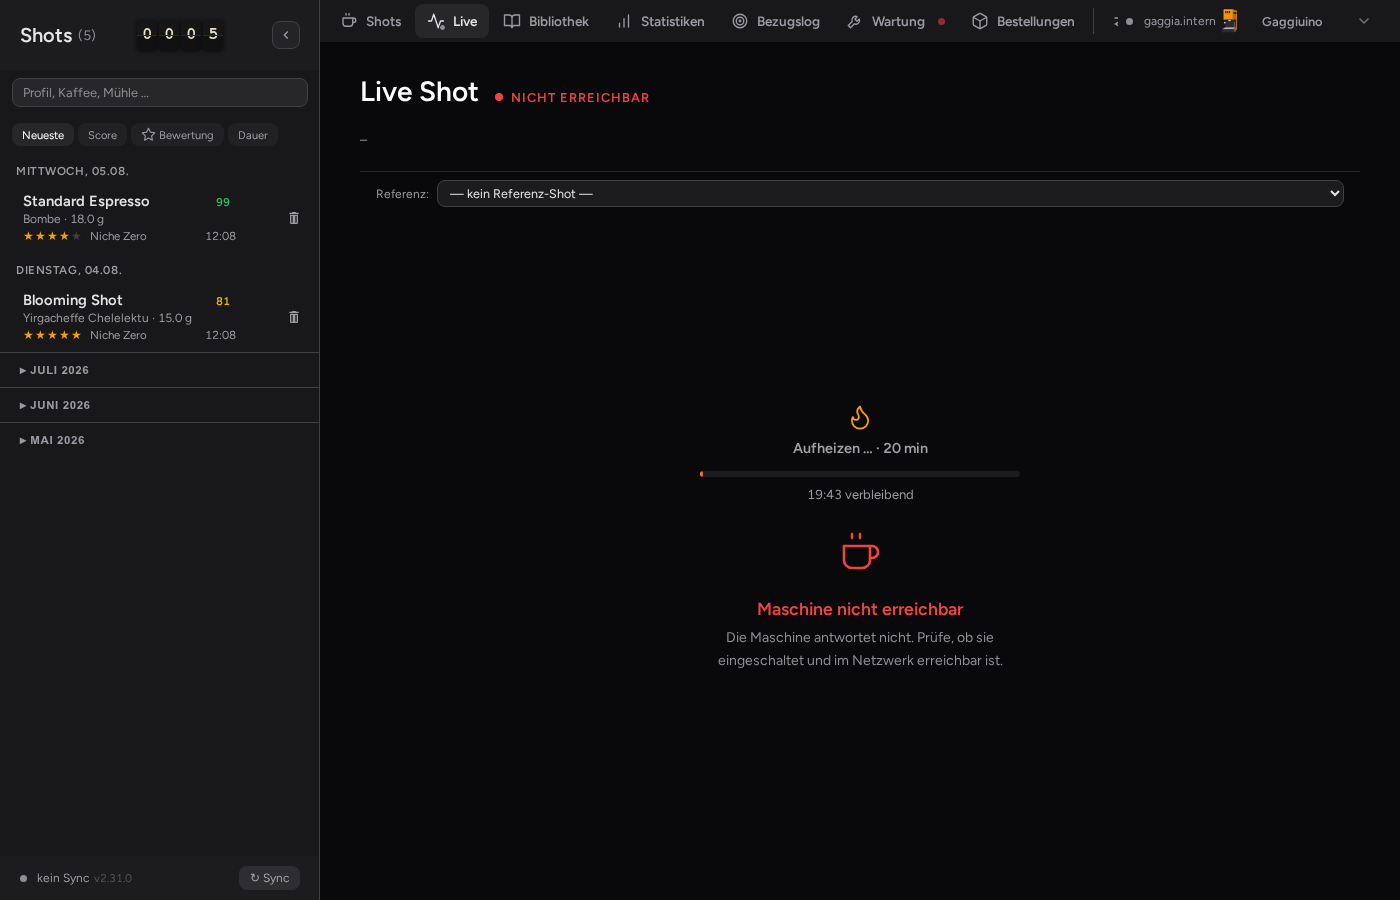
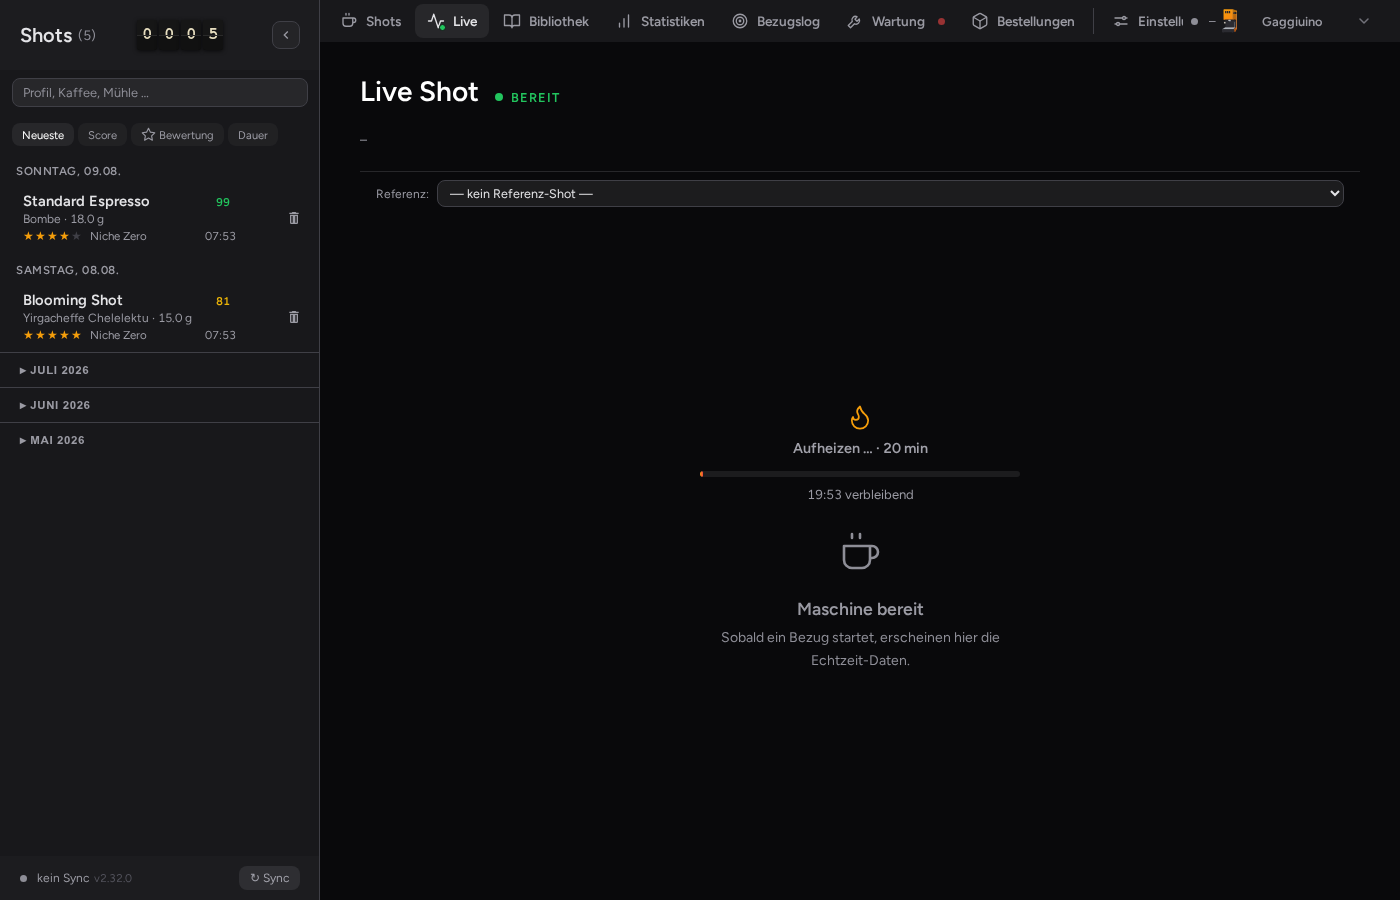
release: v2.32.0
Squash the dev branch's version numbers (which climbed through eight
sub-versions, 2.32.0-2.35.1, across the same-day dev cycle) down to the
next sequential public release, v2.32.0, matching prior release precedent.
Bump version (constants.js, config.yaml, package.json), move CHANGELOG's
Unreleased section into the 2.32.0 release entry, collapse the eight
internal dev-cycle What's New entries into one curated 2.32.0 entry, fix
DOCS.md/DOCS.de.md's stale "(v2.33.0)" setup-wizard heading to (v2.32.0),
regenerate README screenshots and dev-stats, and touch up README's Live
Mode/Auto-Sync feature rows for real-time push updates.

Closes #755, #753, #744, #736, #742, #735, #738, #740, #729, #731, #733,
#750, #757, #748, #746, #725, #721, #719, #718, #717, #716, #714, #713,
#712, #711, #710, #709, #706, #704, #662, #674, #673, #700, #699, #698

diff --git a/gaggiuino-local-profiler/lib/whats-new.js b/gaggiuino-local-profiler/lib/whats-new.js
@@ -18,34 +18,12 @@
 // caps it defensively so an out-of-order manual edit can't silently show
 // entries in the wrong order or let the list grow unbounded.
 const WHATS_NEW_ENTRIES = [
-    { version: '2.35.1', date: '2026-08-10', highlights: [
-        'Fixed the previous data-wipe wizard fix (v2.33.3) never actually firing on its first run for any existing browser — it now genuinely reopens the setup wizard after a real data wipe.',
-    ] },
-    { version: '2.35.0', date: '2026-08-10', highlights: [
-        'The dev-only raw database export (Settings → Dev Tools) now has an import counterpart, for GLP DEV builds only — separate from, and no change to, the regular Backup & Restore feature.',
-    ] },
-    { version: '2.34.0', date: '2026-08-10', highlights: [
-        'Settings → Machines can now change the default machine ("Set as default") and delete any machine, including the current default (behind a confirmation) — not just non-default ones.',
-    ] },
-    { version: '2.33.3', date: '2026-08-10', highlights: [
-        'Fixed the first-run setup wizard staying permanently suppressed after wiping the add-on\'s data — it now reopens correctly on a genuine fresh start instead of only via the manual "Restart setup tour" control.',
-    ] },
-    { version: '2.33.2', date: '2026-08-10', highlights: [
-        'Fixed the setup wizard closing itself the instant "Test connection" was clicked, and no longer leaves a duplicate machine behind.',
-    ] },
-    { version: '2.33.1', date: '2026-08-10', highlights: [
-        'Fixed the first-run setup wizard never actually opening on a real fresh install.',
-    ] },
-    { version: '2.33.0', date: '2026-08-10', highlights: [
-        'Added a guided first-run setup wizard: a first-time install with no machines configured now gets a welcome -> connect machine -> done walkthrough automatically.',
-        'The wizard offers a one-click "load demo data" shortcut for trying GLP before connecting a real machine.',
-        'A new "Restart setup tour" control in Settings → Machines reopens the wizard anytime.',
-    ] },
-    { version: '2.32.0', date: '2026-08-10', highlights: [
-        'Machine setup\'s "Test connection" button now saves first automatically, instead of requiring the machine to already be saved.',
-        'New machines show an import progress indicator for their initial shot sync.',
-        'Saving any machine now triggers a catch-up shot sync for it, not just default-machine host changes.',
-        'Shot-import progress now updates live instead of in 30s polling jumps, and the completion toast is now reliable — falls back to the previous polling behavior automatically if a live connection can\'t be established.',
+    { version: '2.32.0', date: '2026-08-11', highlights: [
+        'Heads up if you manage the machine host/switch entity via the add-on\'s Configuration tab: those fields are removed there. Your existing value carries over automatically, but from now on the default machine is configured entirely under Settings → Machines instead.',
+        'Added a guided first-run setup wizard: a fresh install with no machines configured now gets a welcome -> connect machine -> done walkthrough, with a one-click demo-data option and a "Restart setup tour" control in Settings → Machines.',
+        'The Live tab and the sidebar\'s shot counter now update in real time instead of only polling every few seconds, falling back automatically if a live connection can\'t be established.',
+        'Settings → Machines: "Test connection" now saves the machine automatically first, you can change the default machine or delete any machine, and the host field can be left empty to save a machine as "not configured yet".',
+        'Fixed several shot-sync sticking points (a stuck backfill, an out-of-range shot id) and the Live tab\'s flow reading always showing 0.',
     ] },
 ];
 

diff --git a/gaggiuino-local-profiler/lib/constants.js b/gaggiuino-local-profiler/lib/constants.js
@@ -3,7 +3,7 @@ if (typeof File === 'undefined') {
     try { global.File = require('buffer').File; } catch { global.File = class File {}; }
 }
 
-const GLP_VERSION  = '2.35.1';
+const GLP_VERSION  = '2.32.0';
 const DEFAULT_PORT = 8099;
 
 const DATA_DIR             = '/data';

diff --git a/DEVELOPMENT.md b/DEVELOPMENT.md
@@ -1,36 +1,36 @@
 # Development Stats
 
-Generated 2026-08-07 by `scripts/dev-stats.mjs`. Re-run it any time to refresh these numbers — they are computed live from git history, not hand-maintained.
+Generated 2026-08-11 by `scripts/dev-stats.mjs`. Re-run it any time to refresh these numbers — they are computed live from git history, not hand-maintained.
 
 ## Timeline
 
-The GLP ecosystem (this app + 3 companion repos) has been in development since **2026-05-20** — **80 days** as of the last commit (2026-08-07).
+The GLP ecosystem (this app + 3 companion repos) has been in development since **2026-05-20** — **83 days** as of the last commit (2026-08-10).
 
 | Repo | First commit | Last commit | Commits | Claude co-authored |
 |---|---|---|---|---|
-| gaggiuino-local-profiler | 2026-05-20 | 2026-08-07 | 851 | 615 (72%) |
-| glp-integration | 2026-05-22 | 2026-08-07 | 165 | 103 (62%) |
-| glp-lovelace-card | 2026-05-24 | 2026-08-04 | 129 | 95 (74%) |
-| glp-order-card | 2026-05-25 | 2026-08-04 | 104 | 73 (70%) |
-| **Combined** | **2026-05-20** | **2026-08-07** | **1249** | **886 (71%)** |
+| gaggiuino-local-profiler | 2026-05-20 | 2026-08-10 | 928 | 672 (72%) |
+| glp-integration | 2026-05-22 | 2026-08-10 | 173 | 107 (62%) |
+| glp-lovelace-card | 2026-05-24 | 2026-08-09 | 135 | 98 (73%) |
+| glp-order-card | 2026-05-25 | 2026-08-09 | 108 | 75 (69%) |
+| **Combined** | **2026-05-20** | **2026-08-10** | **1344** | **952 (71%)** |
 
 ![Commits per repo](docs/dev-stats/commits-per-repo.png)
 
-Combined line changes (insertions + deletions across all commits): **327.539**, of which **245.012** landed in Claude-co-authored commits.
+Combined line changes (insertions + deletions across all commits): **340.188**, of which **255.666** landed in Claude-co-authored commits.
 
 Commits without a Claude co-author line are presumed human-only (manual fixes, merges, config tweaks) — not independently verified.
 
 ## Hours of development (lower-bound estimate)
 
-Clustering each repo's commit timestamps into working sessions — commits within 2h of each other join the same session, and each session gets a 30-minute lead-in credited ahead of its first commit — gives a combined **331.2 hours** across all four repos.
+Clustering each repo's commit timestamps into working sessions — commits within 2h of each other join the same session, and each session gets a 30-minute lead-in credited ahead of its first commit — gives a combined **359.0 hours** across all four repos.
 
 | Repo | Hours (session-clustered) |
 |---|---|
-| gaggiuino-local-profiler | 192.1 |
-| glp-integration | 53.4 |
-| glp-lovelace-card | 45.8 |
-| glp-order-card | 39.9 |
-| **Combined** | **331.2** |
+| gaggiuino-local-profiler | 214.6 |
+| glp-integration | 55.7 |
+| glp-lovelace-card | 47.6 |
+| glp-order-card | 41.1 |
+| **Combined** | **359.0** |
 
 This is a **lower-bound estimate derived from git commit timestamps only**, not measured time — it undercounts real work because a long AI-agentic session (orchestration, agent dispatch, review between infrequent commits) can run for hours between commits.
 
@@ -38,7 +38,7 @@ This is a **lower-bound estimate derived from git commit timestamps only**, not 
 
 | Model | Commits |
 |---|---|
-| Claude Sonnet 5 | 420 |
+| Claude Sonnet 5 | 486 |
 | Claude Sonnet 4.6 | 348 |
 | Claude Opus 4.8 | 47 |
 | Claude Fable 5 | 40 |

diff --git a/README.md b/README.md
@@ -81,9 +81,9 @@ More in [`docs/screenshots/`](gaggiuino-local-profiler/docs/screenshots/) (Dial-
 |---|---|---|
 | 🔀 | **Multi-Machine** | Manage more than one espresso machine from a single add-on instance — Gaggiuino (full support) or [GaggiMate](https://github.com/jniebuhr/gaggimate) (experimental: sync + live status, read-only profiles). Shot sync now runs for every registered machine, not just the default one; live view stays default-machine-only for now. Maintenance (descaling/backflush/group head/gaskets) is tracked per machine; shared equipment (water filter, grinder) stays global. Existing single-machine installs upgrade automatically, no manual steps. |
 | 📈 | **Shot Archive** | All shots with pressure, flow, weight and temperature curves |
-| 🔴 | **Live Mode** | Real-time display directly from the controller (`/api/system/status`) |
+| 🔴 | **Live Mode** | Real-time display directly from the controller (`/api/system/status`); the Live tab, preheat/ready badge and the sidebar's shot counter push updates instantly over a live connection, falling back automatically to polling if one can't be established |
 | 📡 | **MQTT Live-Data Transport** | Alternative to the WebSocket connection for live sensor/system data — subscribes to the Gaggiuino's own MQTT-published topics instead, toggled in Settings ("Live connection: WebSocket / MQTT"). Broker connection is auto-discovered via the HA Supervisor's MQTT service when available, with manual entry as a fallback, plus a one-click "Apply to machine" that points the machine's own MQTT client at the same broker. Feeds the exact same live-state cache the WebSocket transport does — `glp-integration` needs zero changes either way. Applies to the default machine only. |
-| 🔄 | **Auto-Sync** | New shots load automatically when `gaggiuino_latest_shot_id` rises |
+| 🔄 | **Auto-Sync** | New shots load automatically when `gaggiuino_latest_shot_id` rises; a backfill's progress now updates live with a reliable completion/failure notification, also falling back to polling automatically |
 | ⇄ | **Compare Mode** | Overlay two shots side by side |
 | 👻 | **Ghost Curve & Delta Chips** | When an earlier shot exists with the same profile on the same machine, the shot detail auto-compares: a score delta chip on the verdict header, signed delta chips on pressure/flow/temp, and the previous shot's curves overlaid on the chart as a dashed ghost — independent of the explicit Compare Mode above |
 | 🏆 | **Shot Score** | Automatic 0–100 score (pressure, stability, duration, ratio, channeling), shown as a verdict-header score ring with a plain-language dial-in headline atop the shot detail; temperature/ratio target the bean's own brew recommendation from the Library when set, flagged with a target-icon badge on the header when it applies |

diff --git a/gaggiuino-local-profiler/DOCS.md b/gaggiuino-local-profiler/DOCS.md
@@ -241,7 +241,7 @@ Each round: confirm the trial shot (never auto-matched, same reasoning as the gr
 
 This first version deliberately doesn't parse the phase data embedded on a shot record as a tuning signal — that field's exact shape hasn't been confirmed against real hardware — so the suggestion logic relies only on the shot's overall score and your own taste judgment, not an automated curve comparison.
 
-### Guided setup wizard (v2.33.0)
+### Guided setup wizard (v2.32.0)
 
 A first-time install with **zero machines configured** opens a guided 3-step modal automatically, instead of landing directly on the empty Shots view: a **welcome** step explaining what GLP does ("Get started" / "Later"), a **connect your first machine** step that reuses the exact same add-machine form and test-connect logic as Settings → Machines (not a separate copy), and a **done** step pointing to Settings → Machines for adding more machines later.
 

diff --git a/gaggiuino-local-profiler/CHANGELOG.md b/gaggiuino-local-profiler/CHANGELOG.md
@@ -1,4 +1,4 @@
-## Unreleased
+## [2.32.0] – 2026-08-11
 
 ### Added
 - **The dev-only raw database export (Settings → Dev Tools, GLP DEV builds only) now has an import counterpart.** `POST /api/debug/import-db` uploads a raw `.db` file and replaces `/data/glp.db` with it — 404s exactly like the existing export route on any real install (`GLP_DEV_BUILD` unset). The current database is checkpointed and backed up to a timestamped file before the swap; the new file is written via a rename rather than in-place, so the already-running server keeps serving from its existing connection untouched until the add-on is restarted, at which point it loads the imported file. Separate from, and doesn't change, the existing curated ZIP Backup & Restore feature (`Settings → Backup & Restore`), which stays available in every build. Closes #755
